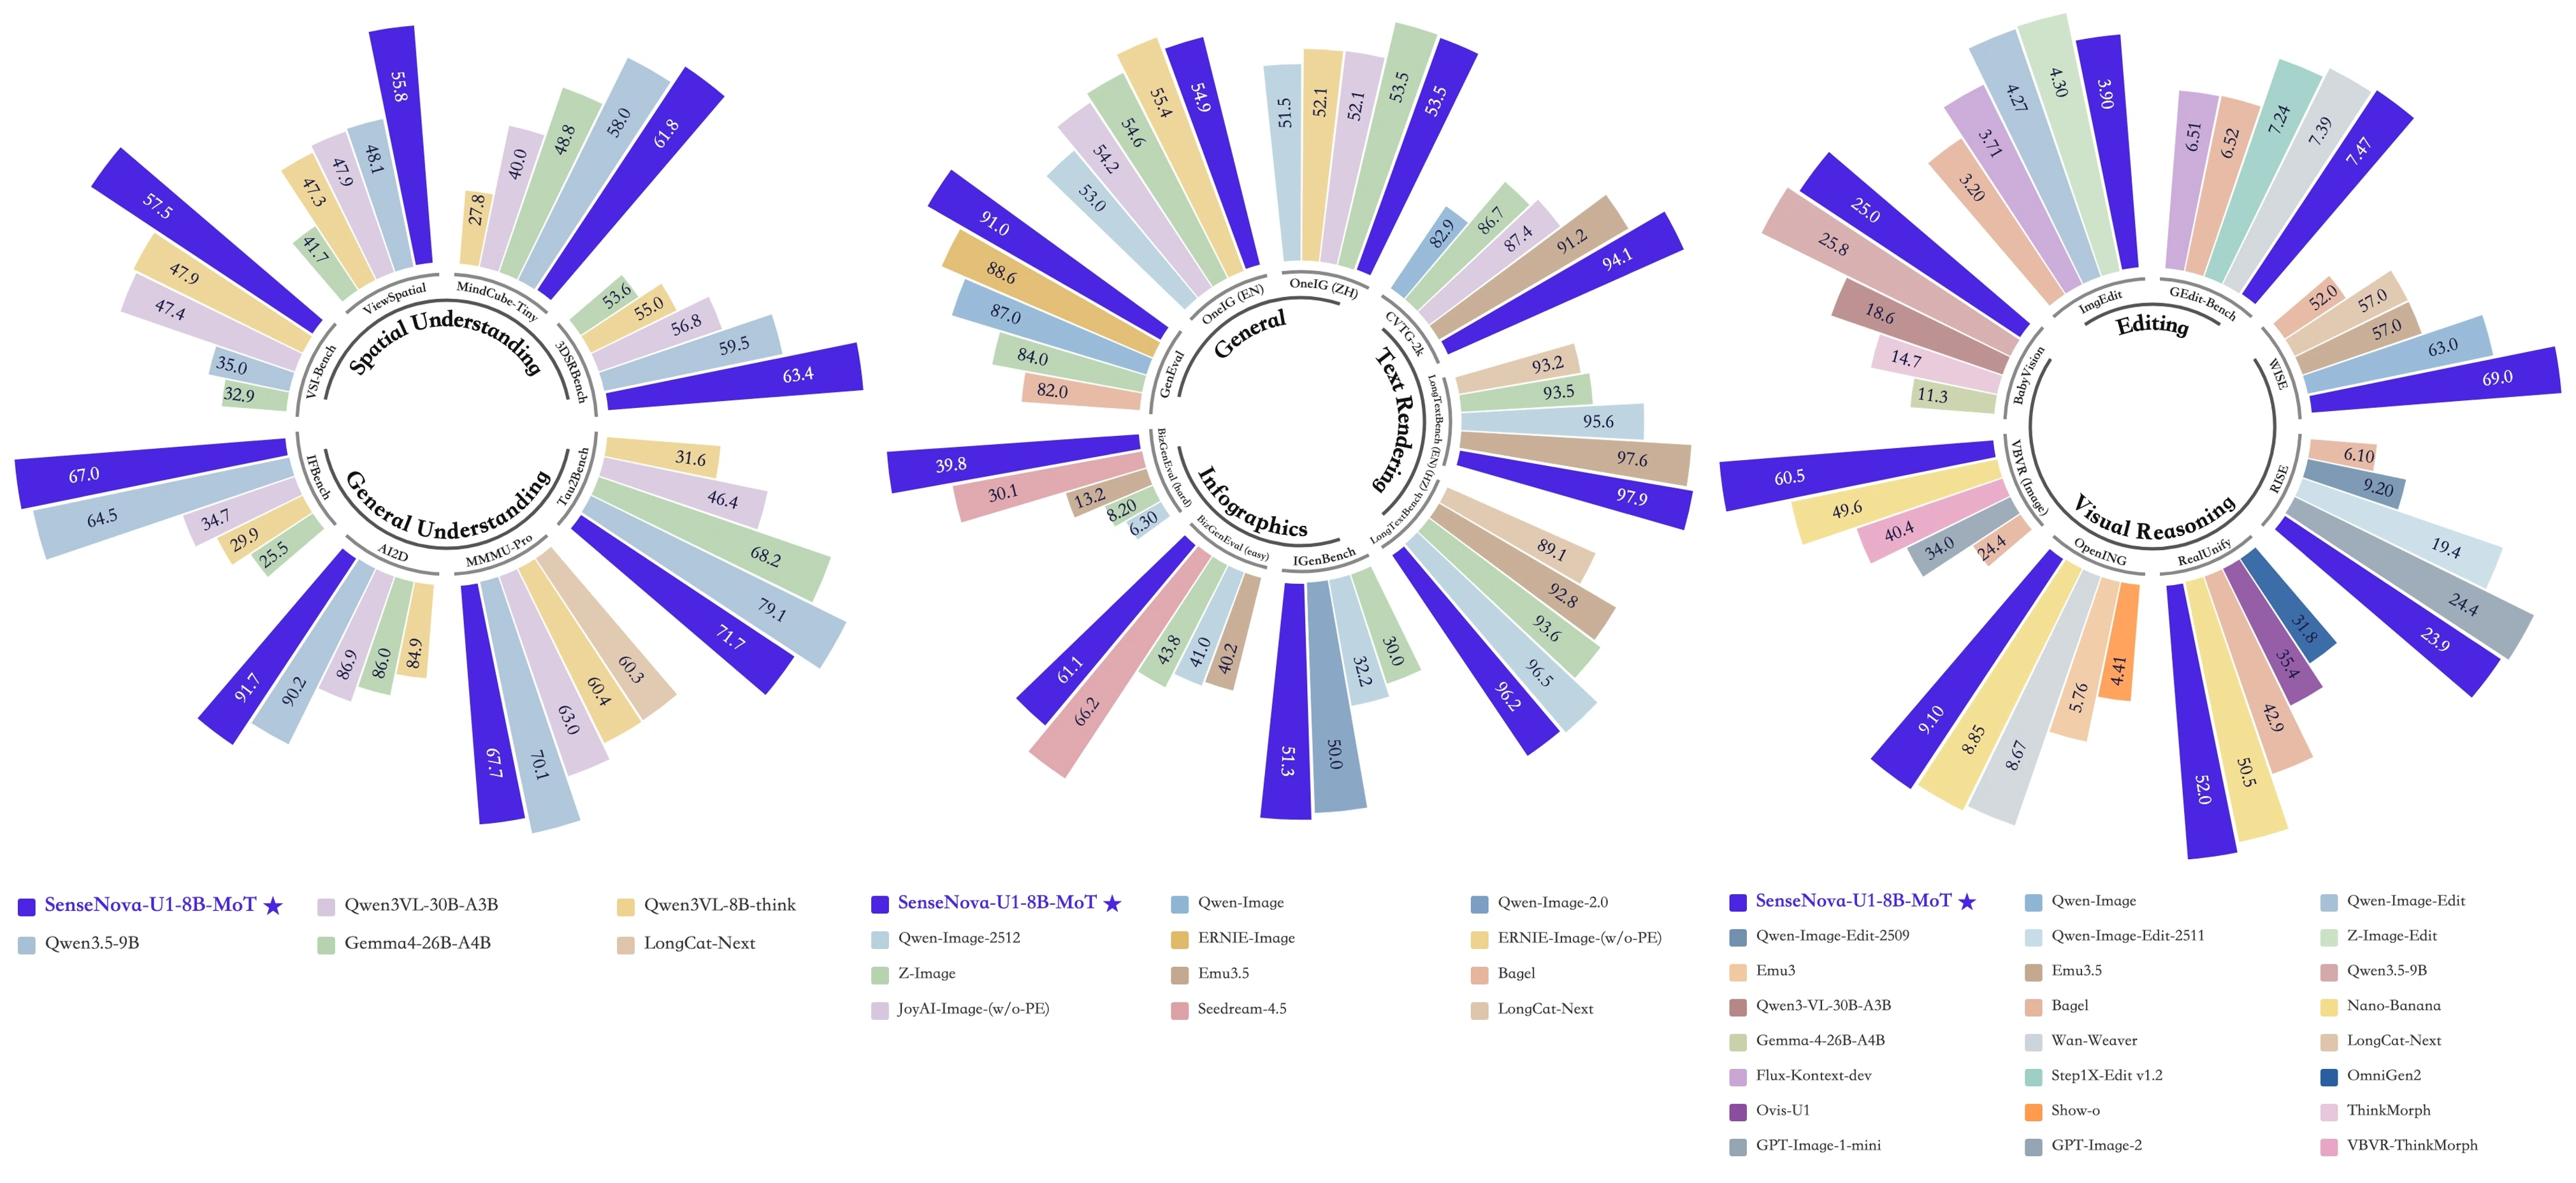
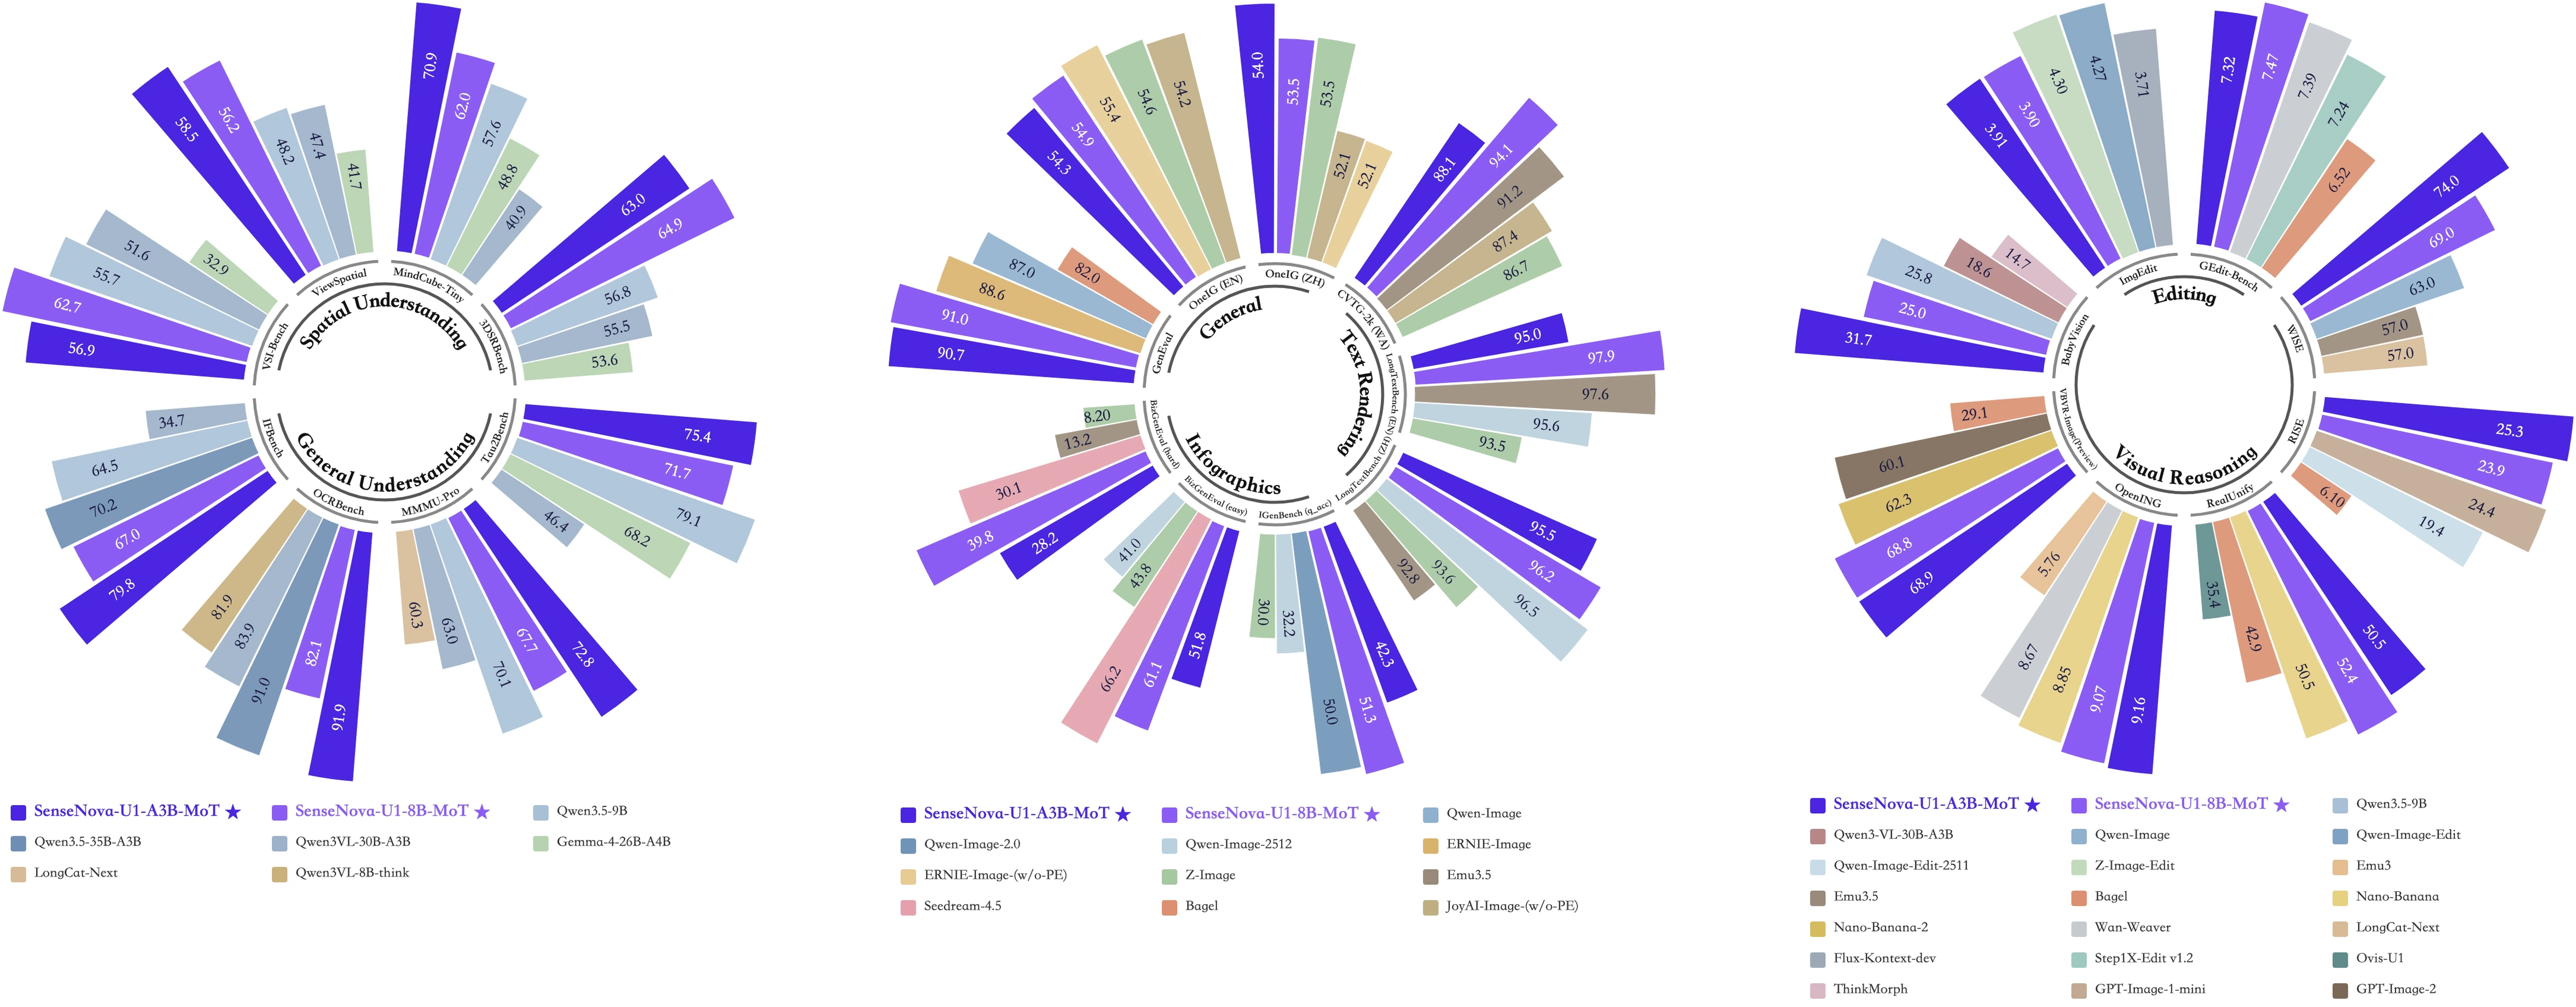
Update project files

diff --git a/README.md b/README.md
@@ -1,4 +1,4 @@
-# SenseNova-U1: Unifying Multimodal Understanding and Generation with NEO-Unify Architecture
+# SenseNova-U1: Unifying Multimodal Understanding and Generation with NEO-unify Architecture
 
 <p align="center">
   <strong>English</strong> | <a href="./README_CN.md">简体中文</a>
@@ -21,6 +21,20 @@
   <img src="docs/assets/teaser_2.webp" alt="visualization" width="900">
 </p>
 
+## 📣 Updated News
+
+- `[2026.05.10]` Release [🔥SenseNova-U1 Technical Report🔥](https://github.com/OpenSenseNova/SenseNova-U1/blob/main/docs/pdf/SenseNOVA_U1.pdf) and the weights for [SenseNova-U1-A3B-MoT-SFT](https://huggingface.co/sensenova/SenseNova-U1-A3B-MoT-SFT) & [SenseNova-U1-A3B-MoT](https://huggingface.co/sensenova/SenseNova-U1-A3B-MoT).
+
+- `[2026.05.08]` Add **GGUF quantized checkpoints** and **layer-offload VRAM modes** for low-VRAM single-GPU inference. See [Memory-efficient inference](#-memory-efficient-inference-gguf--vram-modes). GGUF weights for `SenseNova-U1-8B-MoT-Merger` are available at [🤗 smthem/SenseNova-U1-8B-MoT-Merger-gguf](https://huggingface.co/smthem/SenseNova-U1-8B-MoT-Merger-gguf) — many thanks to [@smthem](https://github.com/smthem) for contributing the quantized weights.
+
+- `[2026.05.06]` Release [SenseNova-U1-8B-MoT-LoRA-8step-V1.0](https://huggingface.co/sensenova/SenseNova-U1-8B-MoT-LoRAs/blob/main/SenseNova-U1-8B-MoT-LoRA-8step-V1.0.safetensors). Please see the [example script](docs/base_vs_distill.md#run-base-and-distilled-model).
+
+- `[2026.04.30]` Release the preview version of the 8-step inference model [SenseNova-U1-8B-MoT-8step-preview](https://huggingface.co/sensenova/SenseNova-U1-8B-MoT-8step-preview). In most cases, the image generation quality of this model closely matches that of the base model (see [comparison and existing issues](docs/base_vs_distill.md)). To test this model, you can use the [inference scripts](examples/README.md), but with the following parameters: ```--cfg_scale 1.0 --num_steps 8``` .
+
+- `[2026.04.27]` Initial release of the weights for [SenseNova-U1-8B-MoT-SFT](https://huggingface.co/sensenova/SenseNova-U1-8B-MoT-SFT) and [SenseNova-U1-8B-MoT](https://huggingface.co/sensenova/SenseNova-U1-8B-MoT).
+
+- `[2026.04.27]` Initial release of the [inference code](https://github.com/OpenSenseNova/SenseNova-U1/blob/main/examples/README.md) for SenseNova-U1.  
+
 ## 🌟 Overview
 
 🚀 **SenseNova U1** is a new series of native multimodal models that unifies multimodal understanding, reasoning, and generation within a monolithic architecture. 
@@ -34,7 +48,7 @@ Unifying visual understanding and generation in an end-to-end architecture from 
 
 #### 🏗️ *Key Pillars:*      
 
-At the core of SenseNova U1 is **[NEO-Unify](https://huggingface.co/blog/sensenova/neo-unify)**, a novel architecture designed from the first principles for multimodal AI:  *It eliminates both Visual Encoder (VE) and Variational Auto-Encoder (VAE) where pixel-word information are inherently and deeply correlated.* Several important features are as follows:
+At the core of SenseNova U1 is **[NEO-unify](https://huggingface.co/blog/sensenova/neo-unify)**, a novel architecture designed from the first principles for multimodal AI:  *It eliminates both Visual Encoder (VE) and Variational Auto-Encoder (VAE) where pixel-word information are inherently and deeply correlated.* Several important features are as follows:
 
 - 🔗 Model language and visual information end-to-end as a unified compound.   
 - 🖼️ Preserve semantic richness while maintaining pixel-level visual fidelity.     
@@ -81,33 +95,21 @@ In this release, we are open-sourcing the SenseNova U1 Lite series in two sizes:
 | SenseNova-U1-8B-MoT-SFT | 8B MoT | [🤗 link](https://huggingface.co/sensenova/SenseNova-U1-8B-MoT-SFT) |
 | SenseNova-U1-8B-MoT | 8B MoT | [🤗 link](https://huggingface.co/sensenova/SenseNova-U1-8B-MoT) |
 | SenseNova-U1-8B-MoT-LoRA-8step-V1.0 | 0.4B | [🤗 link](https://huggingface.co/sensenova/SenseNova-U1-8B-MoT-LoRAs/blob/main/SenseNova-U1-8B-MoT-LoRA-8step-V1.0.safetensors) |
-| SenseNova-U1-A3B-MoT-SFT | A3B MoT | 🤗 link |
-| SenseNova-U1-A3B-MoT | A3B MoT | 🤗 link |
+| SenseNova-U1-A3B-MoT-SFT | A3B MoT | [🤗 link](https://huggingface.co/sensenova/SenseNova-U1-A3B-MoT-SFT) |
+| SenseNova-U1-A3B-MoT | A3B MoT | [🤗 link](https://huggingface.co/sensenova/SenseNova-U1-A3B-MoT) |
 
 Here **SFT models** (*×32 downsampling ratio*) are trained via Understanding Warmup, Generation Pre-training, Unified Mid-training, and Unified SFT, with **final models** obtained after an initial round of T2I RL training.
 
 Although relatively compact by today’s standards, these models already show strong performance across diverse tasks, comparable to commercial models with excellent cost efficiency. Notably, larger-scale versions are planned to further enhance capability and performance in the future.
 
 > 💡 The `8B-MoT` in `SenseNova-U1-8B-MoT` refers to ~8B understanding parameters **and** ~8B generation parameters. See [parameter breakdown](docs/parameter_breakdown.md) for details.
-
-
-## 📣 Updated News
-
-- `[2026.05.08]` Add **GGUF quantized checkpoints** and **layer-offload VRAM modes** for low-VRAM single-GPU inference. See [Memory-efficient inference](#-memory-efficient-inference-gguf--vram-modes). GGUF weights for `SenseNova-U1-8B-MoT-Merger` are available at [🤗 smthem/SenseNova-U1-8B-MoT-Merger-gguf](https://huggingface.co/smthem/SenseNova-U1-8B-MoT-Merger-gguf) — many thanks to [@smthem](https://github.com/smthem) for contributing the quantized weights.
-
-- `[2026.05.06]` Release [SenseNova-U1-8B-MoT-LoRA-8step-V1.0](https://huggingface.co/sensenova/SenseNova-U1-8B-MoT-LoRAs/blob/main/SenseNova-U1-8B-MoT-LoRA-8step-V1.0.safetensors). Please see the [example script](docs/base_vs_distill.md#run-base-and-distilled-model).
-
-- `[2026.04.30]` Release the preview version of the 8-step inference model [SenseNova-U1-8B-MoT-8step-preview](https://huggingface.co/sensenova/SenseNova-U1-8B-MoT-8step-preview). In most cases, the image generation quality of this model closely matches that of the base model (see [comparison and existing issues](docs/base_vs_distill.md)). To test this model, you can use the [inference scripts](examples/README.md), but with the following parameters: ```--cfg_scale 1.0 --num_steps 8``` .
-
-- `[2026.04.27]` Initial release of the weights for [SenseNova-U1-8B-MoT-SFT](https://huggingface.co/sensenova/SenseNova-U1-8B-MoT-SFT) and [SenseNova-U1-8B-MoT](https://huggingface.co/sensenova/SenseNova-U1-8B-MoT).
-
-- `[2026.04.27]` Initial release of the [inference code](https://github.com/OpenSenseNova/SenseNova-U1/blob/main/examples/README.md) for SenseNova-U1.   
+ 
 
 ## 📋 ToDo List
 
 - [ ] Training code of SenseNova-U1 
 
-- [ ] Final weights and technical report of SenseNova-U1
+- [x] Final weights and technical report of SenseNova-U1
 
 
 ## 🎨 Showcases
@@ -312,11 +314,20 @@ Although relatively compact by today’s standards, these models already show st
 
 
 <details>
-<summary>🦾 Visual-Language Action</summary>
+<summary>🦾 Visual-Language-Action</summary>
 
 [![YouTube](./docs/assets/showcases/vla/1.png)](https://www.youtube.com/watch?v=3mvBPPgv8vo)
 [![YouTube](./docs/assets/showcases/vla/2.png)](https://www.youtube.com/watch?v=2QZY8gf0Vsk)
 [![YouTube](./docs/assets/showcases/vla/3.png)](https://www.youtube.com/watch?v=tznVbuYf0yw)
+
+</details>
+
+<details>
+<summary>🦾 World Modeling</summary>
+
+| |
+| :---: |
+| [<img alt="world modeling case" src="./docs/assets/showcases/wm/1.png">](./docs/assets/showcases/wm/1.png) |
 
 </details>
 

diff --git a/README_CN.md b/README_CN.md
@@ -1,4 +1,4 @@
-# SenseNova-U1：基于 NEO-Unify 架构统一多模态理解与生成
+# SenseNova-U1：基于 NEO-unify 架构统一多模态理解与生成
 
 <p align="center">
   <a href="./README.md">English</a> | <strong>简体中文</strong>
@@ -21,6 +21,20 @@
   <img src="docs/assets/teaser_2.webp" alt="visualization" width="900">
 </p>
 
+## 📣 最新动态
+
+- `[2026.05.10]` 发布 [🔥SenseNova-U1 技术报告🔥](https://github.com/OpenSenseNova/SenseNova-U1/blob/main/docs/pdf/SenseNOVA_U1.pdf)，并开源 [SenseNova-U1-A3B-MoT-SFT](https://huggingface.co/sensenova/SenseNova-U1-A3B-MoT-SFT) 与 [SenseNova-U1-A3B-MoT](https://huggingface.co/sensenova/SenseNova-U1-A3B-MoT) 模型权重。
+
+- `[2026.05.08]` 新增 **GGUF 量化权重支持** 与 **分层加载 VRAM 模式**，便于在单卡低显存环境下推理，详见 [低显存推理（GGUF + VRAM 模式）](#-低显存推理gguf--vram-模式)。`SenseNova-U1-8B-MoT-Merger` 的 GGUF 权重已上传至 [🤗 smthem/SenseNova-U1-8B-MoT-Merger-gguf](https://huggingface.co/smthem/SenseNova-U1-8B-MoT-Merger-gguf)，特别感谢 [@smthem](https://github.com/smthem) 为社区贡献量化权重。
+
+- `[2026.05.06]` 发布[SenseNova-U1-8B-MoT-LoRA-8step-V1.0](https://huggingface.co/sensenova/SenseNova-U1-8B-MoT-LoRAs/blob/main/SenseNova-U1-8B-MoT-LoRA-8step-V1.0.safetensors). 请查看[推理示例脚本](docs/base_vs_distill.md#run-base-and-distilled-model)。
+
+- `[2026.04.30]` 发布8步推理模型的预览版 [SenseNova-U1-8B-MoT-8step-preview](https://huggingface.co/sensenova/SenseNova-U1-8B-MoT-8step-preview). 在大多数情况下，该模型的图像生成质量与基础模型非常接近 (查看 [效果对比和存在的问题](docs/base_vs_distill.md))。要测试该模型，可以参考[推理脚本](examples/README.md), 但需替换如下参数: ```--cfg_scale 1.0 --num_steps 8```。
+
+- `[2026.04.27]` 首发 [SenseNova-U1-8B-MoT-SFT](https://huggingface.co/sensenova/SenseNova-U1-8B-MoT-SFT) 与 [SenseNova-U1-8B-MoT](https://huggingface.co/sensenova/SenseNova-U1-8B-MoT) 模型权重。
+
+- `[2026.04.27]` 首发 SenseNova-U1 的[推理代码](https://github.com/OpenSenseNova/SenseNova-U1/blob/main/examples/README_CN.md)。
+
 ## 🌟 概述
 
 🚀 **SenseNova U1** 是全新一代原生多模态模型系列，在单一架构中统一了多模态理解、推理与生成。
@@ -34,7 +48,7 @@
 
 #### 🏗️ *核心支柱：*
 
-SenseNova U1 的核心是 **[NEO-Unify](https://huggingface.co/blog/sensenova/neo-unify)** —— 一个为多模态 AI 而设计、从第一性原理出发的全新架构：*它彻底摒弃了视觉编码器（VE）与变分自编码器（VAE），因为像素与文字信息在本质上是深度相关的。* 其主要特性如下：
+SenseNova U1 的核心是 **[NEO-unify](https://huggingface.co/blog/sensenova/neo-unify)** —— 一个为多模态 AI 而设计、从第一性原理出发的全新架构：*它彻底摒弃了视觉编码器（VE）与变分自编码器（VAE），因为像素与文字信息在本质上是深度相关的。* 其主要特性如下：
 
 - 🔗 端到端地将语言与视觉信息建模为统一整体。
 - 🖼️ 在保留语义丰富度的同时，维持像素级的视觉保真度。
@@ -80,8 +94,8 @@ SenseNova U1 的核心是 **[NEO-Unify](https://huggingface.co/blog/sensenova/ne
 | SenseNova-U1-8B-MoT-SFT | 8B MoT | [🤗 链接](https://huggingface.co/sensenova/SenseNova-U1-8B-MoT-SFT) |
 | SenseNova-U1-8B-MoT | 8B MoT | [🤗 链接](https://huggingface.co/sensenova/SenseNova-U1-8B-MoT) |
 | SenseNova-U1-8B-MoT-LoRA-8step-V1.0 | 0.4B | [🤗 链接](https://huggingface.co/sensenova/SenseNova-U1-8B-MoT-LoRAs/blob/main/SenseNova-U1-8B-MoT-LoRA-8step-V1.0.safetensors) |
-| SenseNova-U1-A3B-MoT-SFT | A3B MoT | 🤗 链接 |
-| SenseNova-U1-A3B-MoT | A3B MoT | 🤗 链接 |
+| SenseNova-U1-A3B-MoT-SFT | A3B MoT | [🤗 链接](https://huggingface.co/sensenova/SenseNova-U1-A3B-MoT-SFT) |
+| SenseNova-U1-A3B-MoT | A3B MoT | [🤗 链接](https://huggingface.co/sensenova/SenseNova-U1-A3B-MoT) |
 
 其中 **SFT 模型**（*×32 下采样比例*）经过四个阶段训练：(1) *理解预热*，(2) *生成预训练*，(3) *统一中期训练*，(4) *统一监督微调*。**最终模型**是在基座模型之上进行了一轮 T2I 强化学习（RL）训练后得到的版本。
 
@@ -90,23 +104,11 @@ SenseNova U1 的核心是 **[NEO-Unify](https://huggingface.co/blog/sensenova/ne
 > 💡 `SenseNova-U1-8B-MoT` 中的 `8B-MoT` 指的是 ~8B 理解参数**与** ~8B 生成参数。可参阅 [模型参数分解](docs/parameter_breakdown_CN.md) 查看详细的分组明细。
 
 
-## 📣 最新动态
-
-- `[2026.05.08]` 新增 **GGUF 量化权重支持** 与 **分层加载 VRAM 模式**，便于在单卡低显存环境下推理，详见 [低显存推理（GGUF + VRAM 模式）](#-低显存推理gguf--vram-模式)。`SenseNova-U1-8B-MoT-Merger` 的 GGUF 权重已上传至 [🤗 smthem/SenseNova-U1-8B-MoT-Merger-gguf](https://huggingface.co/smthem/SenseNova-U1-8B-MoT-Merger-gguf)，特别感谢 [@smthem](https://github.com/smthem) 为社区贡献量化权重。
-
-- `[2026.05.06]` 发布[SenseNova-U1-8B-MoT-LoRA-8step-V1.0](https://huggingface.co/sensenova/SenseNova-U1-8B-MoT-LoRAs/blob/main/SenseNova-U1-8B-MoT-LoRA-8step-V1.0.safetensors). 请查看[推理示例脚本](docs/base_vs_distill.md#run-base-and-distilled-model).
-
-- `[2026.04.30]` 发布8步推理模型的预览版 [SenseNova-U1-8B-MoT-8step-preview](https://huggingface.co/sensenova/SenseNova-U1-8B-MoT-8step-preview). 在大多数情况下，该模型的图像生成质量与基础模型非常接近 (查看 [效果对比和存在的问题](docs/base_vs_distill.md))。要测试该模型，可以参考[推理脚本](examples/README.md), 但需替换如下参数: ```--cfg_scale 1.0 --num_steps 8``` .
-
-- `[2026.04.27]` 首发 [SenseNova-U1-8B-MoT-SFT](https://huggingface.co/sensenova/SenseNova-U1-8B-MoT-SFT) 与 [SenseNova-U1-8B-MoT](https://huggingface.co/sensenova/SenseNova-U1-8B-MoT) 模型权重。
-
-- `[2026.04.27]` 首发 SenseNova-U1 的[推理代码](https://github.com/OpenSenseNova/SenseNova-U1/blob/main/examples/README_CN.md)。
-
 ## 📋 后续计划
 
 - [ ] SenseNova-U1 训练代码
 
-- [ ] SenseNova-U1 最终版权重与技术报告
+- [x] SenseNova-U1 最终版权重与技术报告
 
 ## 🎨 效果展示
 
@@ -315,6 +317,15 @@ SenseNova U1 的核心是 **[NEO-Unify](https://huggingface.co/blog/sensenova/ne
 [![YouTube](./docs/assets/showcases/vla/1.png)](https://www.youtube.com/watch?v=3mvBPPgv8vo)
 [![YouTube](./docs/assets/showcases/vla/2.png)](https://www.youtube.com/watch?v=2QZY8gf0Vsk)
 [![YouTube](./docs/assets/showcases/vla/3.png)](https://www.youtube.com/watch?v=tznVbuYf0yw)
+
+</details>
+
+<details>
+<summary>🦾 世界建模</summary>
+
+| |
+| :---: |
+| [<img alt="world modeling case" src="./docs/assets/showcases/wm/1.png">](./docs/assets/showcases/wm/1.png) |
 
 </details>
 